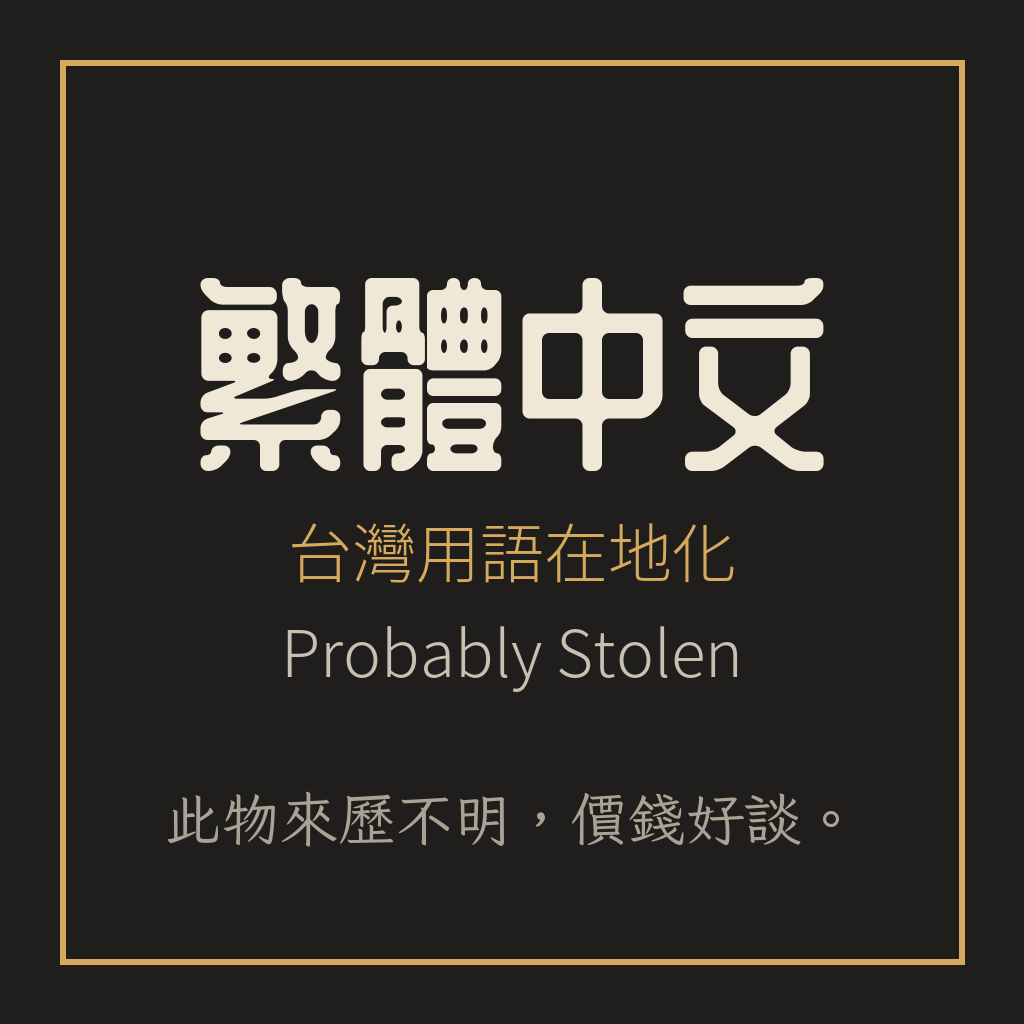
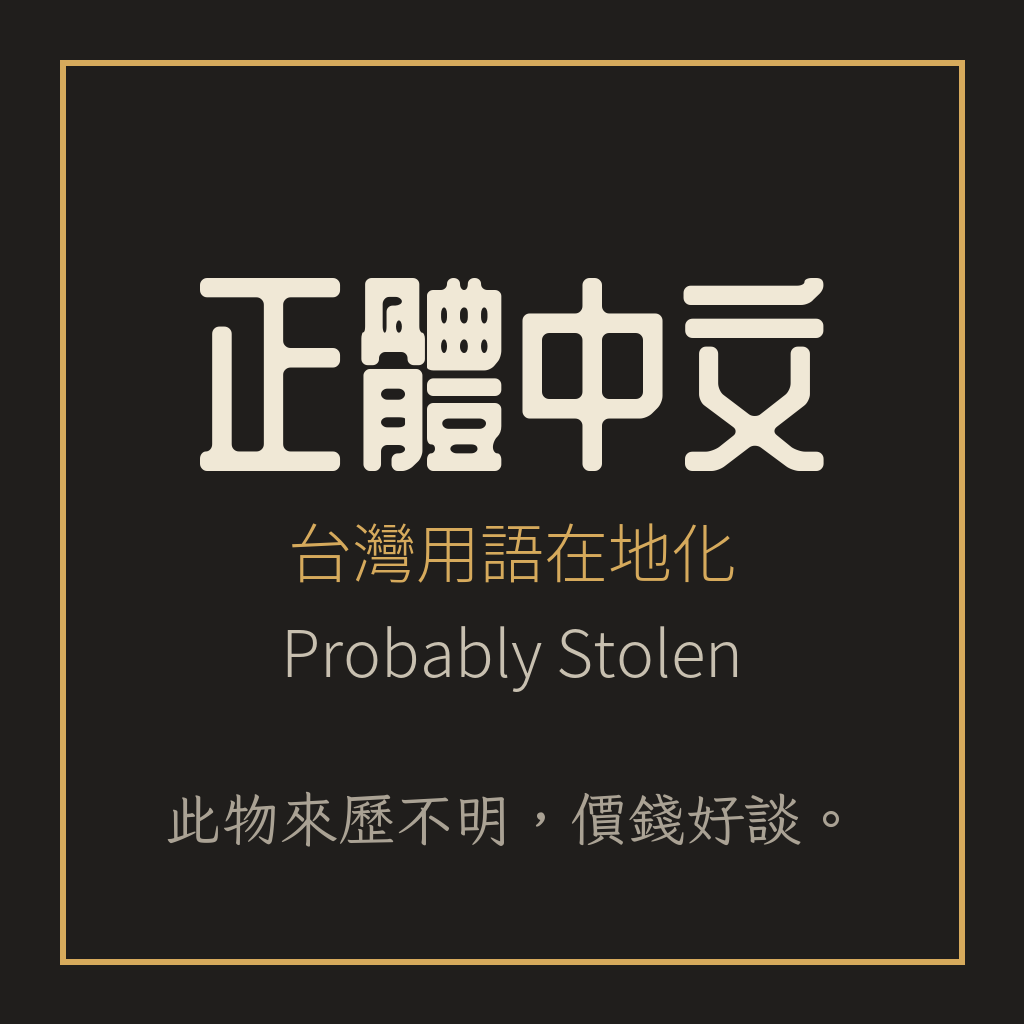
Call the language 正體中文

Changed region(s): [[0.1875, 0.25, 0.3438, 0.4688]]

diff --git a/src/Patches.cs b/src/Patches.cs
@@ -35,7 +35,7 @@ namespace ProbablyStolenZhTW
     internal static class LanguageMenu
     {
         private const string Original = "Simplified Chinese";
-        private const string Label = "繁體中文";
+        private const string Label = "正體中文";
 
         internal static void Rename(MainMenuUIController menu)
         {

diff --git a/README.md b/README.md
@@ -1,9 +1,9 @@
-# Probably Stolen 繁體中文（台灣）模組
+# Probably Stolen 正體中文（台灣）模組
 
-《Probably Stolen》正式版的繁體中文化模組，使用遊戲官方的模組系統，可從 Steam 工作坊訂閱。
+《Probably Stolen》正式版的正體中文化模組，使用遊戲官方的模組系統，可從 Steam 工作坊訂閱。
 以官方簡體中文為底本，依台灣用語與語感改寫遊戲文字，並把中文字型換成繁中字型。
 
-- 選單上的簡體中文選項會改為「繁體中文」，選了就顯示本模組的譯文。
+- 選單上的簡體中文選項會改為「正體中文」，選了就顯示本模組的譯文。
 - 不修改任何遊戲檔與存檔，停用模組就回到原版。
 - 試玩版用的安裝程式在 [`demo` 分支](../../tree/demo)與 [v1.1.0](../../releases/tag/v1.1.0)，正式版請用本模組。
 
@@ -17,7 +17,7 @@
 
 1. 在工作坊訂閱本模組，啟動遊戲。
 2. 在主選單的「Mods」畫面啟用「Traditional Chinese (Taiwan)」，再重新啟動遊戲。
-3. 在主選單右上角的語言選單選「繁體中文」。
+3. 在主選單右上角的語言選單選「正體中文」。
 
 ### 手動安裝
 
@@ -60,7 +60,7 @@
 |---|---|
 | `LocalizedStringDatabase.GenerateLocalizedString` | 遊戲第一次用到某張簡中字串表時，把表內條目換成譯文。每條譯文附有簡中原文的雜湊，原文對不上就保留原文 |
 | `FontLoader.GetFontByRole` | 簡中語系下，把簡中字型資產換成用模組字型檔即時建立的繁中字型資產 |
-| `MainMenuUIController.HandleLocaleDropdown` | 語言選單的「Simplified Chinese」改為「繁體中文」 |
+| `MainMenuUIController.HandleLocaleDropdown` | 語言選單的「Simplified Chinese」改為「正體中文」 |
 
 模組不需要任何額外權限（遊戲的模組掃描不會偵測到檔案、網路等能力），檔案一律透過 `ModHelper` 讀取。
 
